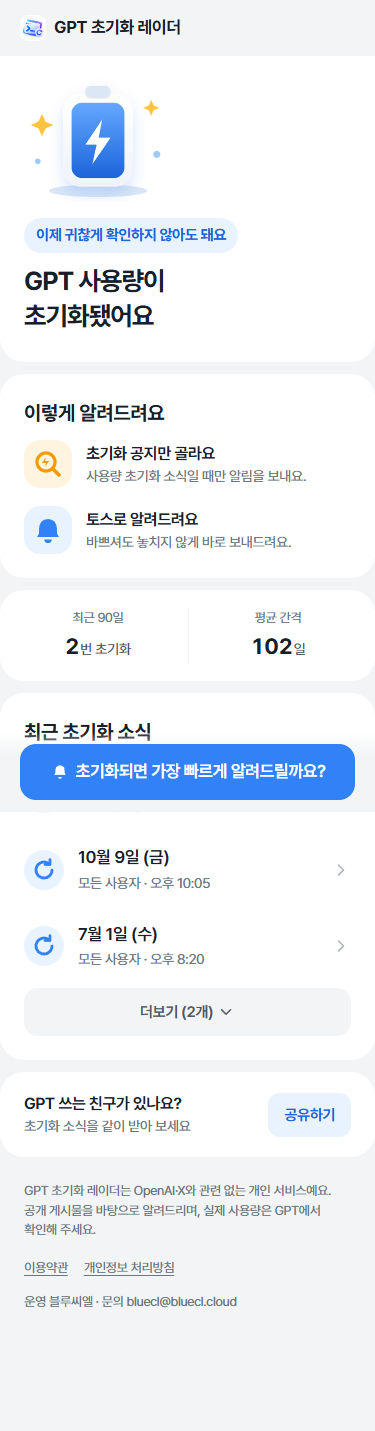
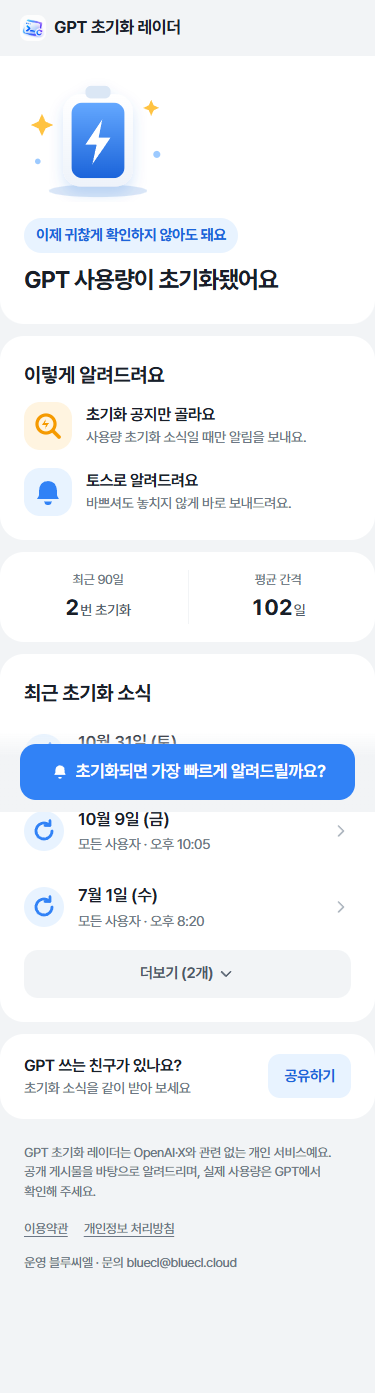
[Design] 첫 화면 제목을 한 줄로 변경

diff --git a/tests/browser/flows.spec.ts b/tests/browser/flows.spec.ts
@@ -10,6 +10,10 @@ test('홈: 초기화 소식·통계·전체 기록 (모두 무료)', async ({ pa
   await page.goto('/');
   await expect(page.getByRole('heading', { level: 1 })).toContainText('초기화됐어요');
   // 첫 화면은 같은 말을 반복하지 않아요("알려드"는 제목에서만 한 번까지)
+  // 제목은 한 줄
+  const h1 = page.getByRole('heading', { level: 1 });
+  const lh = await h1.evaluate(el => parseFloat(getComputedStyle(el).lineHeight));
+  expect((await h1.boundingBox())!.height).toBeLessThan(lh * 1.5);
   const heroText = await page.locator('.hero').innerText();
   expect(heroText).not.toContain('대상이에요');
   await expect(page.locator('main')).not.toContainText('유료 플랜');

diff --git a/src/App.tsx b/src/App.tsx
@@ -141,7 +141,7 @@ export default function App() {
         <section className="hero" aria-labelledby="hero-title">
           <HeroGauge fresh={fresh} />
           <p className="kicker">이제 귀찮게 확인하지 않아도 돼요</p>
-          <h1 id="hero-title">{fresh ? <>GPT 사용량이<br />초기화됐어요</> : <>GPT 사용량이 초기화되면<br />바로 알려드릴게요</>}</h1>
+          <h1 id="hero-title">{fresh ? <>GPT 사용량이 초기화됐어요</> : <>GPT 사용량이 초기화되면<br />바로 알려드릴게요</>}</h1>
         </section>
 
         <section className="card" aria-labelledby="how-title">

diff --git a/src/styles.css b/src/styles.css
@@ -180,3 +180,6 @@ button, label.toggle-row { cursor: pointer; }
 
 /* 첫 화면 한마디 */
 .kicker { display: inline-block; margin: 4px 0 10px; padding: 6px 12px; border-radius: 999px; background: var(--blue-pale); color: var(--blue-dark); font-size: 15px; font-weight: 700; letter-spacing: -.02em; }
+
+/* 첫 화면 제목은 좁은 화면에서도 한 줄 */
+.hero h1 { white-space: nowrap; font-size: clamp(20px, 6.4vw, 26px); }
